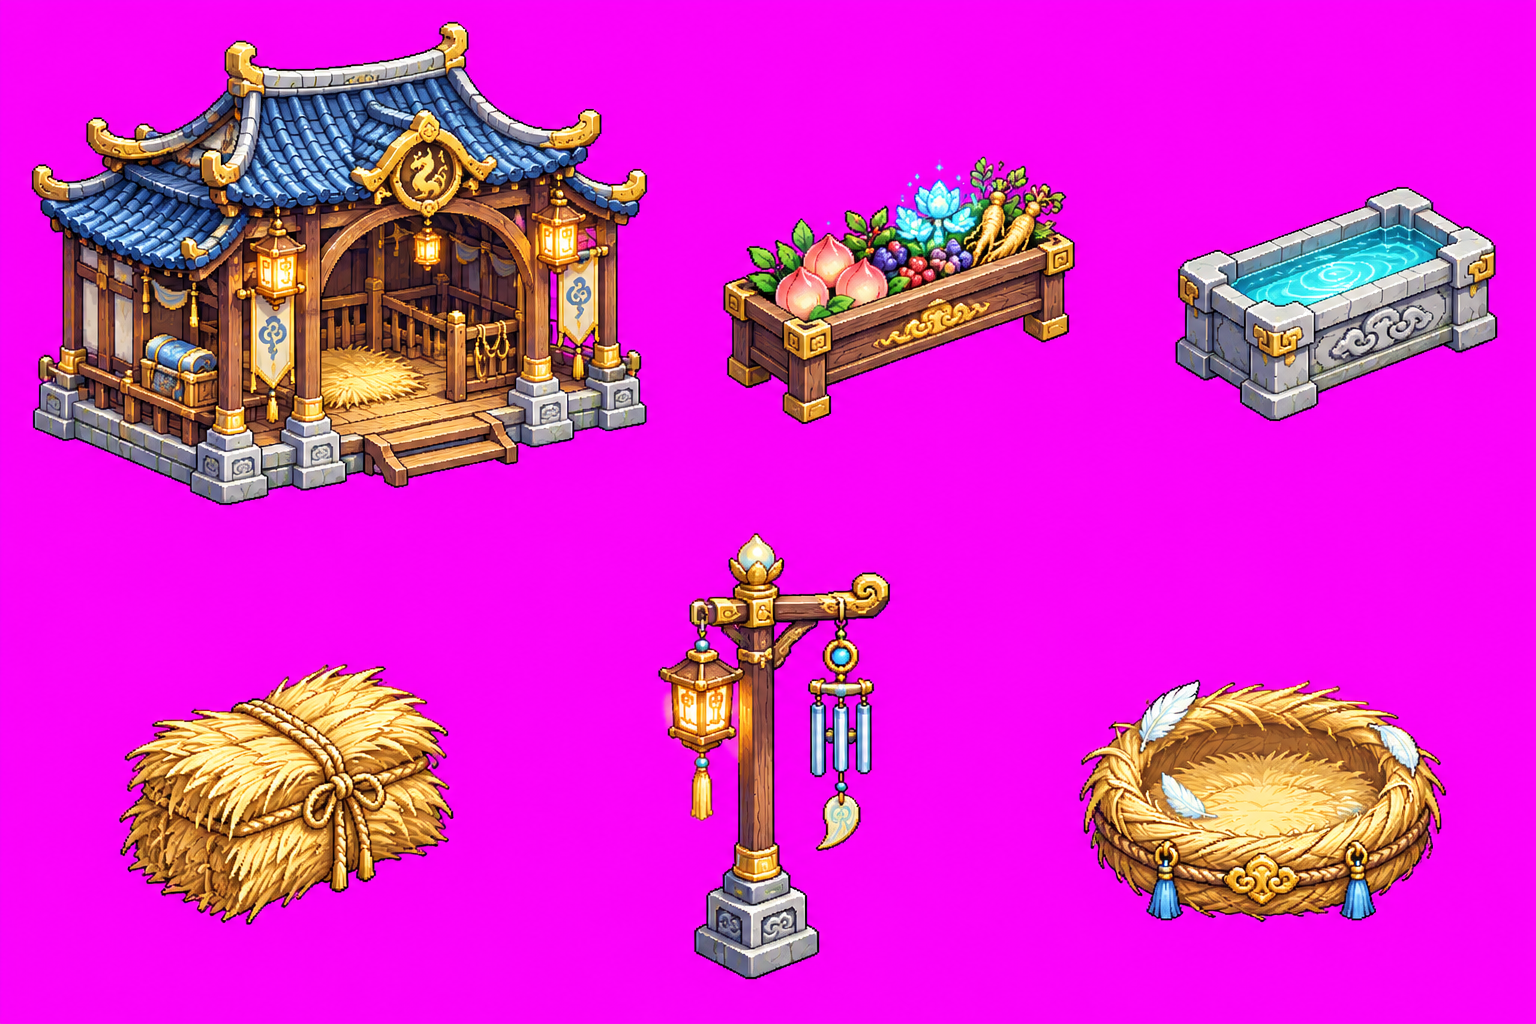
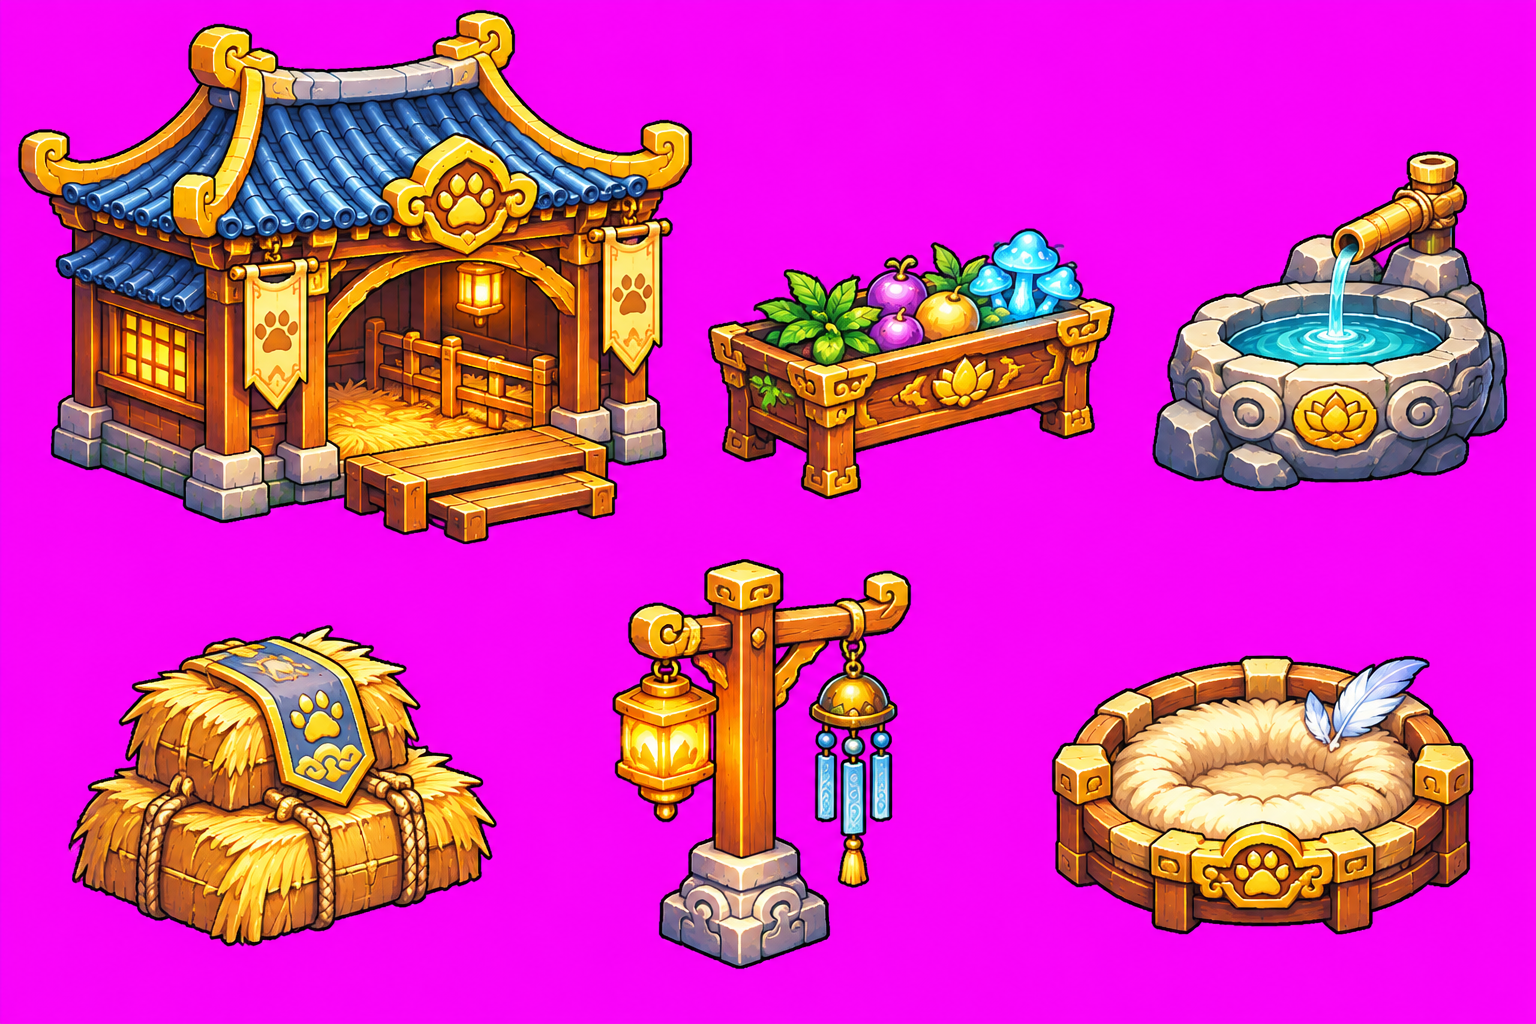
M8: Chuong Linh Thu xep theo mau bo cuc ChatGPT, bo do moi, loi da tu cong toi chuong

diff --git a/src/data/sect_layout.js b/src/data/sect_layout.js
@@ -36,7 +36,7 @@ export const SECT = {
     { id: 'dan_duoc', name: 'Đan Dược Phòng', nha: 'dan_duoc', at: [93.2, 38] },   // (16/11) nhà lớn tách từ concept, đi vào được; at = chân bậc (ô)
   ],
   // Luyện Võ Trường: sân đất (elip trong lưới) + rào chữ nhật bên trong, cổng rào phía bắc lệch trái (đầu đường đông nam)
-  PEN: { id: 'luyen_vo', name: 'Chuồng Linh Thú', ...BOCUC.pen },   // (16/11) sân luyện võ đổi thành chuồng linh thú (id giữ luyen_vo cho save/test)
+  PEN: { id: 'luyen_vo', name: 'Chuồng Linh Thú', ...BOCUC.pen, path: [[84.8, 44.5], [85, 47.6], [88, 48.4], [94, 51.6], [97.5, 52.2]] },   // lối đá từ cổng tới cửa chuồng (ô)   // (16/11) sân luyện võ đổi thành chuồng linh thú (id giữ luyen_vo cho save/test)
   GATE: { nha: 'cong_bi_canh', at: [60.5, 21] },   // (16/11) cổng bí cảnh tách từ concept: chân bậc (ô); PORTAL = chỗ đứng bấm E trên bệ
   PORTAL: null,
   BIA: tf([60.5, 53.4]),   // bia lớn giữa vườn bia (concept: chân bia ~ (60.6, 53.9))
@@ -57,8 +57,11 @@ export const SECT = {
     ['tung_bonsai', 72, 17.5, [2, 1]], ['cay_tron', 111, 56, [2, 1]], ['cay_tron', 13.5, 53, [2, 1]], ['bui_cay', 76, 39, [2, 1]],
     ['khom_hoa', 58, 56.5], ['khom_hoa', 63, 57], ['khom_hoa', 52, 42], ['khom_hoa', 70, 30],
     // (16/11) Chuồng Linh Thú (thay Luyện Võ Trường): chuồng mái ngói, máng ăn, máng nước, ụ rơm, ổ rơm, cột đèn (sprites/tm_chuong)
-    ['chuong_thu', 100, 53.5, [12, 3]],   // chuồng to cỡ các nhà (15×12 ô)
-    ['mang_an', 88, 50, [5, 1]], ['mang_nuoc', 88, 54.6, [5, 1]],
-    ['o_rom', 95.5, 56.6, [4, 1]], ['u_rom', 103.8, 56.6, [4, 1]], ['cot_den', 83.5, 56.6, [1, 1]], ['cot_den', 92.5, 46.5, [1, 1]],
+    // xếp theo mẫu bố cục ChatGPT (docs/concept/chuong_linh_thu_bo_cuc_chatgpt.png): chuồng giữa sau, ụ rơm trái chuồng, giếng nước phải,
+    // ổ rơm phải trước, máng ăn trái trước, cột đèn giữa trước, cây hoa đào góc trái, cờ trên rào, khóm hoa rải
+    ['chuong_thu', 97.5, 51, [9, 2]], ['u_rom', 88.8, 50.2, [3, 1]], ['mang_nuoc', 104.2, 50, [3, 1]],
+    ['o_rom', 103.8, 55.2, [3, 1]], ['mang_an', 89.5, 55, [4, 1]], ['cot_den', 96.5, 55.3, [1, 1]],
+    ['anh_dao_nho', 85.2, 53.5, [1, 1]], ['co_phuon', 83.4, 50.5, [1, 1]], ['co_phuon', 106.8, 47.5, [1, 1]],
+    ['khom_hoa', 92.5, 53], ['khom_hoa', 100.5, 53.8], ['khom_hoa', 106, 52.5],
   ].map(([n, x, y, ...r]) => [n, ...tf([x, y + (PEN_PROPS.has(n) || (n === 'co_phuon' && x > 80) ? PEN_DY : 0)]), ...r]),
 };

diff --git a/tests/sect_map.test.js b/tests/sect_map.test.js
@@ -41,8 +41,8 @@ test('hồi sinh đứng được; tới được cửa mọi công trình, cổ
   assert.equal(S.buildings.length, 5);
   for (const b of S.buildings) { assert.ok(reachable(b.doorPx), b.id); assert.ok(m.canStand(b.doorPx.x, b.doorPx.y), b.id + ' đứng được ở cửa'); }
   for (const [name, p] of [['cổng rào', S.pen.doorPx], ['cổng bí cảnh', S.portal], ['bia', S.bia]]) { assert.ok(reachable(p), name); assert.ok(m.canStand(p.x, p.y), name); }
-  // vào được trong sân Luyện Võ Trường qua cổng rào
-  assert.ok(reachable({ x: S.pen.px + S.pen.pw / 2, y: S.pen.py + S.pen.ph / 2 }));
+  // vào được trong Chuồng Linh Thú qua cổng rào (giữa sân giờ là chuồng -> kiểm điểm cuối lối đá trước cửa chuồng và góc trái dưới)
+  for (const [tx, ty] of [[97.5, 52.6], [84.5, 55.5]]) assert.ok(reachable({ x: (S.ox + tx) * 16, y: (S.oy + ty) * 16 }), `trong chuồng (${tx},${ty})`);
 });
 
 test('không có chỗ đứng được nào bị kẹt trong khung tông môn; viền khung kín', () => {

diff --git a/src/world/map.js b/src/world/map.js
@@ -84,6 +84,11 @@ export function buildSectGrid(S = SECT) {
     const gate = y === P.y && x >= P.gate[0] && x <= P.gate[1];
     set(x, y, edge && !gate ? FENCE : GRASS);   // (16/11) chuồng linh thú: nền cỏ trong rào
   }
+  if (P.path) for (let i = 1; i < P.path.length; i++) {   // (16/11) lối đá trong chuồng linh thú, rộng 2 ô
+    const [x0, y0] = P.path[i - 1], [x1, y1] = P.path[i], n = Math.ceil(Math.hypot(x1 - x0, y1 - y0) * 4);
+    for (let k = 0; k <= n; k++) { const px = x0 + (x1 - x0) * k / n, py = y0 + (y1 - y0) * k / n;
+      for (let yy = Math.floor(py - 1); yy < py + 1; yy++) for (let xx = Math.floor(px - 1); xx < px + 1; xx++) if (g[yy * S.W + xx] !== FENCE || (yy === P.y && xx >= P.gate[0] && xx <= P.gate[1])) set(xx, yy, STONE); }
+  }
   for (const b of S.BUILDINGS) { if (b.nha) continue; const r = solidRect(b.foot, b.base); for (let y = r.y0; y < r.y1; y++) for (let x = r.x0; x < r.x1; x++) set(x, y, BUILDING); }
   for (const [, x, y, sd] of S.PROPS) if (sd) block(solidRect([x, y], sd));
   if (!S.ROWS) {

diff --git a/TASKS_TU_TIEN_LO.md b/TASKS_TU_TIEN_LO.md
@@ -426,7 +426,7 @@ Thiết kế + backlog đầy đủ (ChatGPT, 13/11): **`docs/chatgpt_tong_mon_M
   - Tàng Kinh: Đồ Giám 9/12, công pháp khóa hiện "???" kèm điều kiện mở; đóng/mở nhiều lần, phím vẫn tới game.
   - Bia: 5/7 đoạn hiện, 2 đoạn chưa đủ điều kiện để "— chưa khắc —"; đã đọc lưu trong save.
   - Luyện Võ: E "Gọi sói luyện đòn", đủ sói thì báo; cả 4 sói ở trong rào. Cổng bí cảnh: E mở bảng chuẩn bị.
-- [x] (16/11) Luyện Võ Trường đổi thành CHUỒNG LINH THÚ (người phát triển yêu cầu; chỉ hình ảnh, tính năng nuôi thú để sau): đồ chuồng ChatGPT vẽ (`sprites/tm_chuong`: chuồng mái ngói, máng ăn, máng nước, ụ rơm, ổ rơm, cột đèn), nền cỏ trong rào, bỏ sói và "gọi sói luyện đòn" khỏi sảnh, E "Xem chuồng" báo sắp mở. Id khu giữ `luyen_vo`. Chuồng thu ×2,6 (15×12 ô, cỡ các nhà), đồ nhỏ ×3,8 — nét hơn bản đầu (×5,5 mờ, nhỏ). Ảnh `docs/playtest/M8_chuong_linh_thu.png`
+- [x] (16/11) Luyện Võ Trường đổi thành CHUỒNG LINH THÚ (người phát triển yêu cầu; chỉ hình ảnh, tính năng nuôi thú để sau): đồ chuồng ChatGPT vẽ (`sprites/tm_chuong`: chuồng mái ngói, máng ăn, máng nước, ụ rơm, ổ rơm, cột đèn), nền cỏ trong rào, bỏ sói và "gọi sói luyện đòn" khỏi sảnh, E "Xem chuồng" báo sắp mở. Id khu giữ `luyen_vo`. Chuồng thu ×2,6 (15×12 ô, cỡ các nhà), đồ nhỏ ×3,8 — nét hơn bản đầu (×5,5 mờ, nhỏ). Làm lại theo mẫu bố cục ChatGPT (`docs/concept/chuong_linh_thu_bo_cuc_chatgpt.png`) + bộ đồ bản người phát triển chỉnh cho hợp concept: chuồng giữa sau, ụ rơm trái, giếng nước phải, ổ rơm, máng ăn, cột đèn, cây hoa đào, cờ trên rào, lối đá từ cổng tới cửa chuồng (`PEN.path`). Ảnh `docs/playtest/M8_chuong_linh_thu.png`
 - [ ] M8-12 HUD, M8-14 cảm ứng, M8-16 save/regression, M8-17..18 playtest
 
 ---
